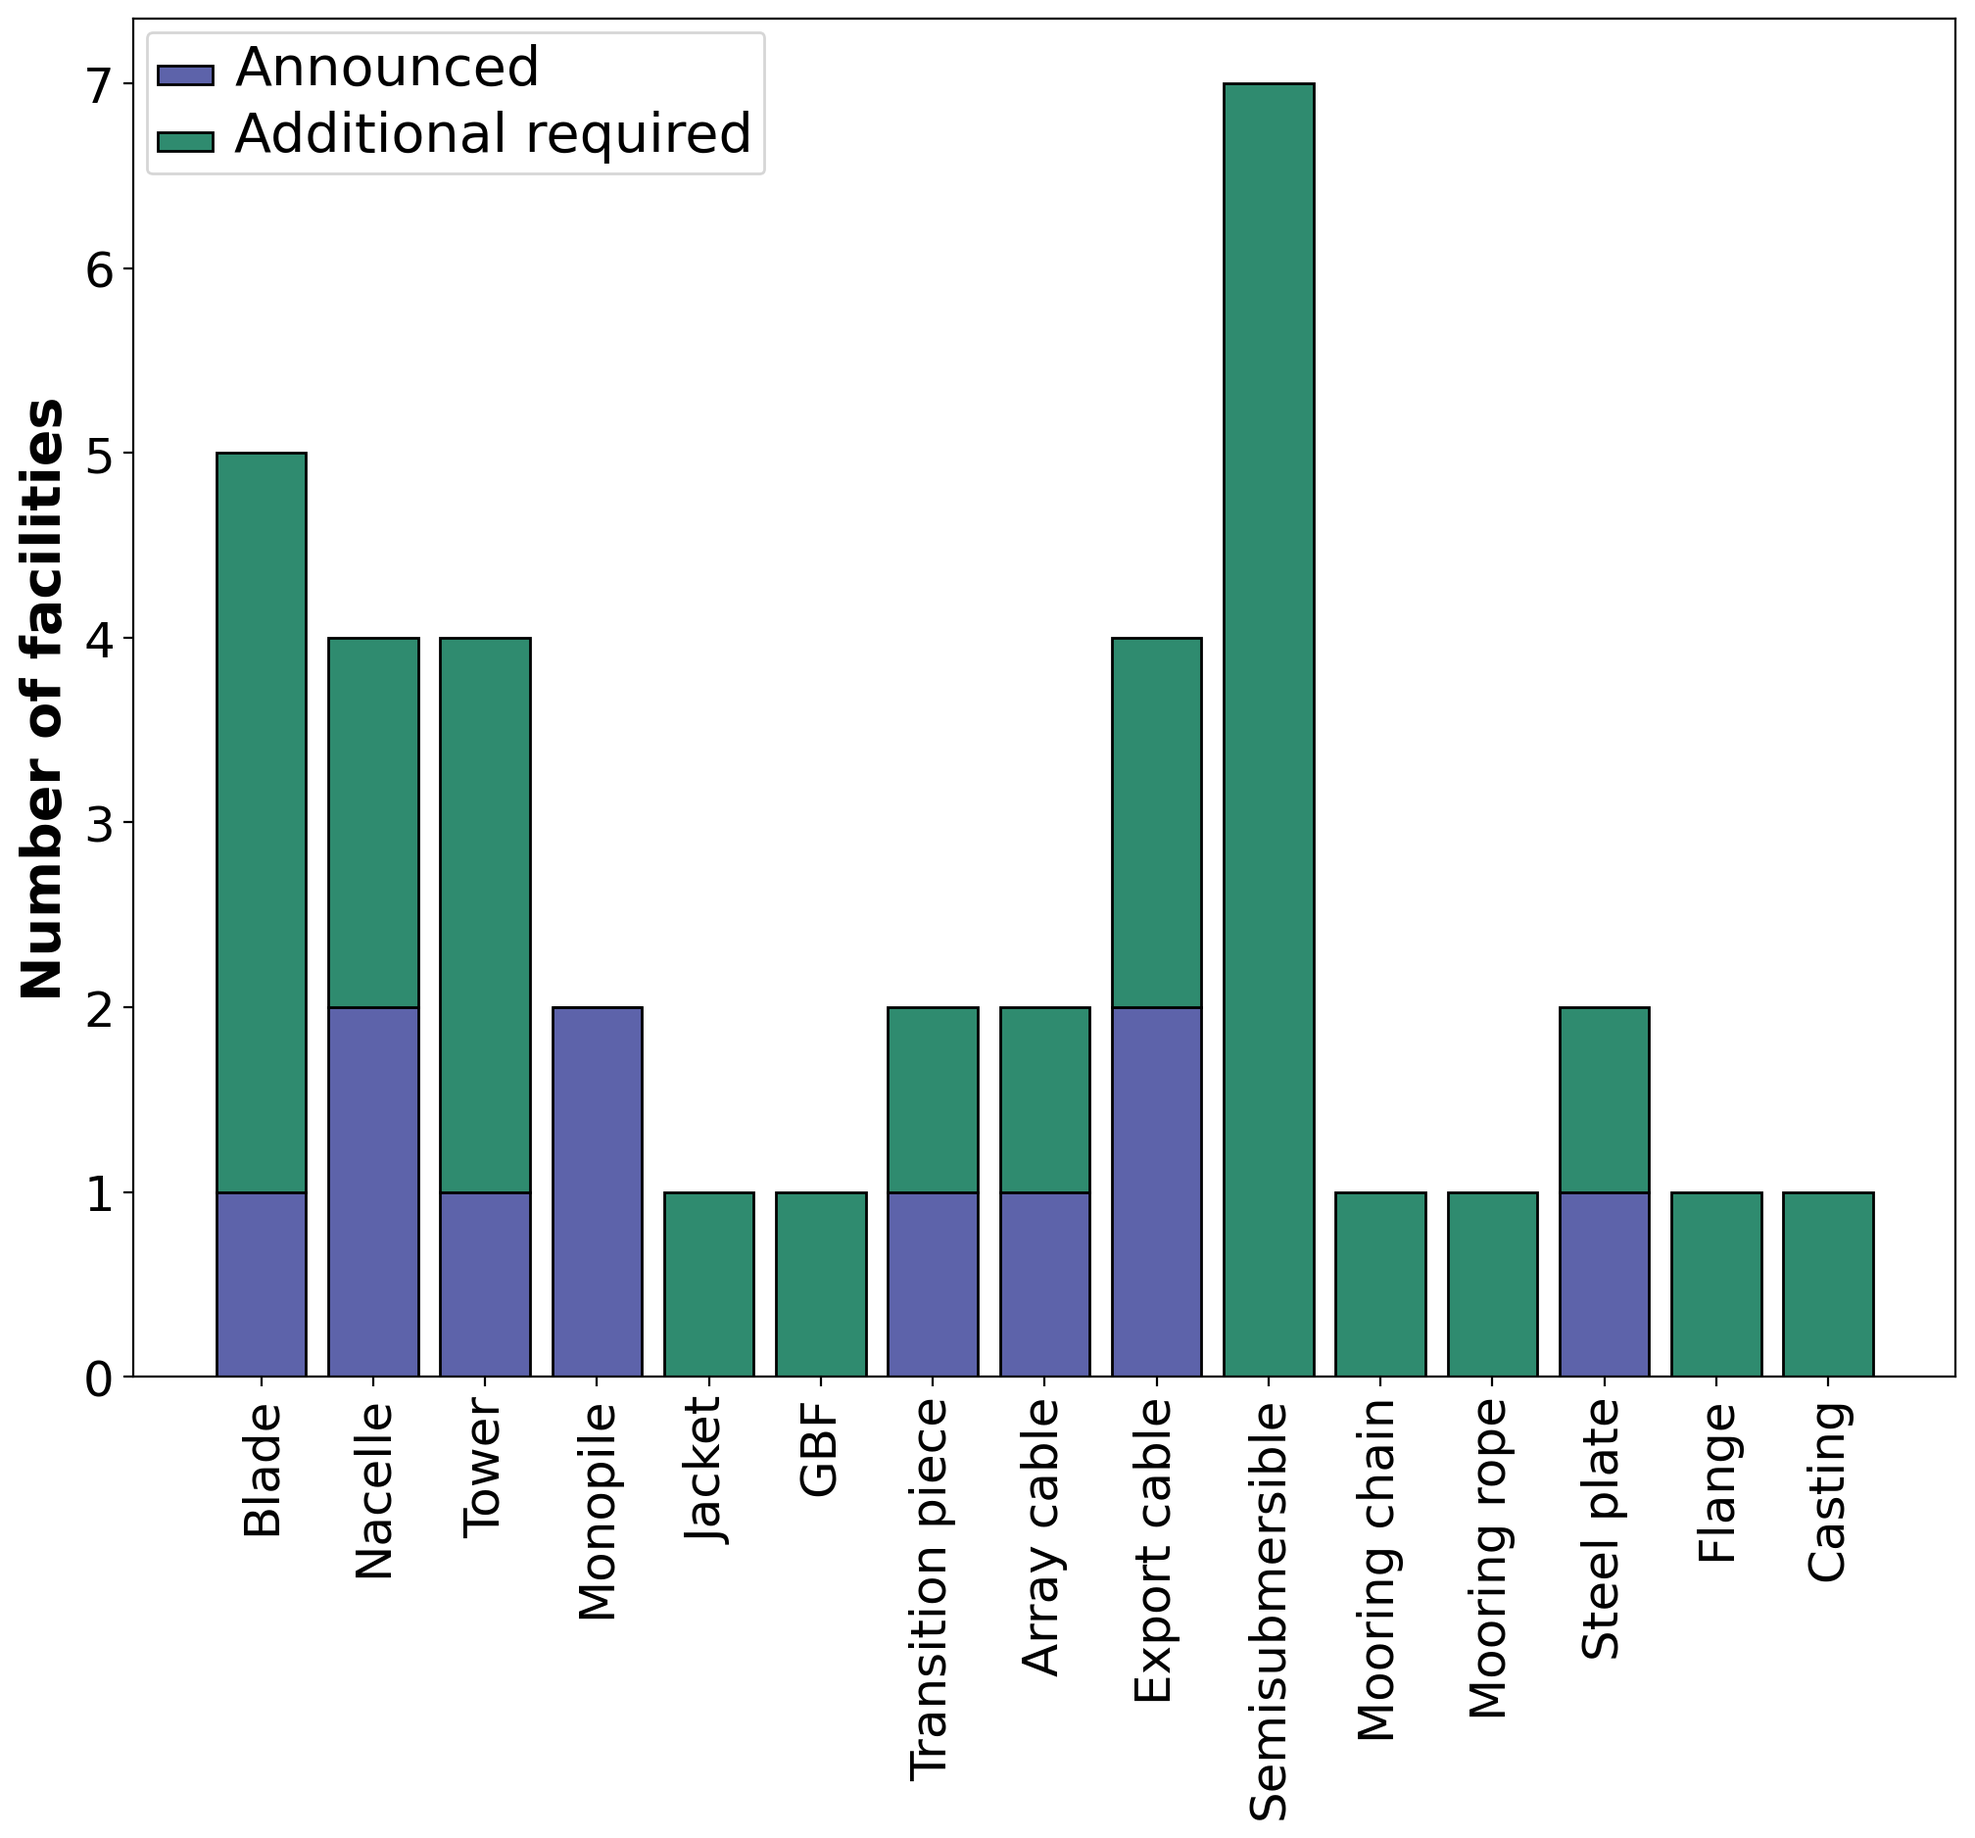
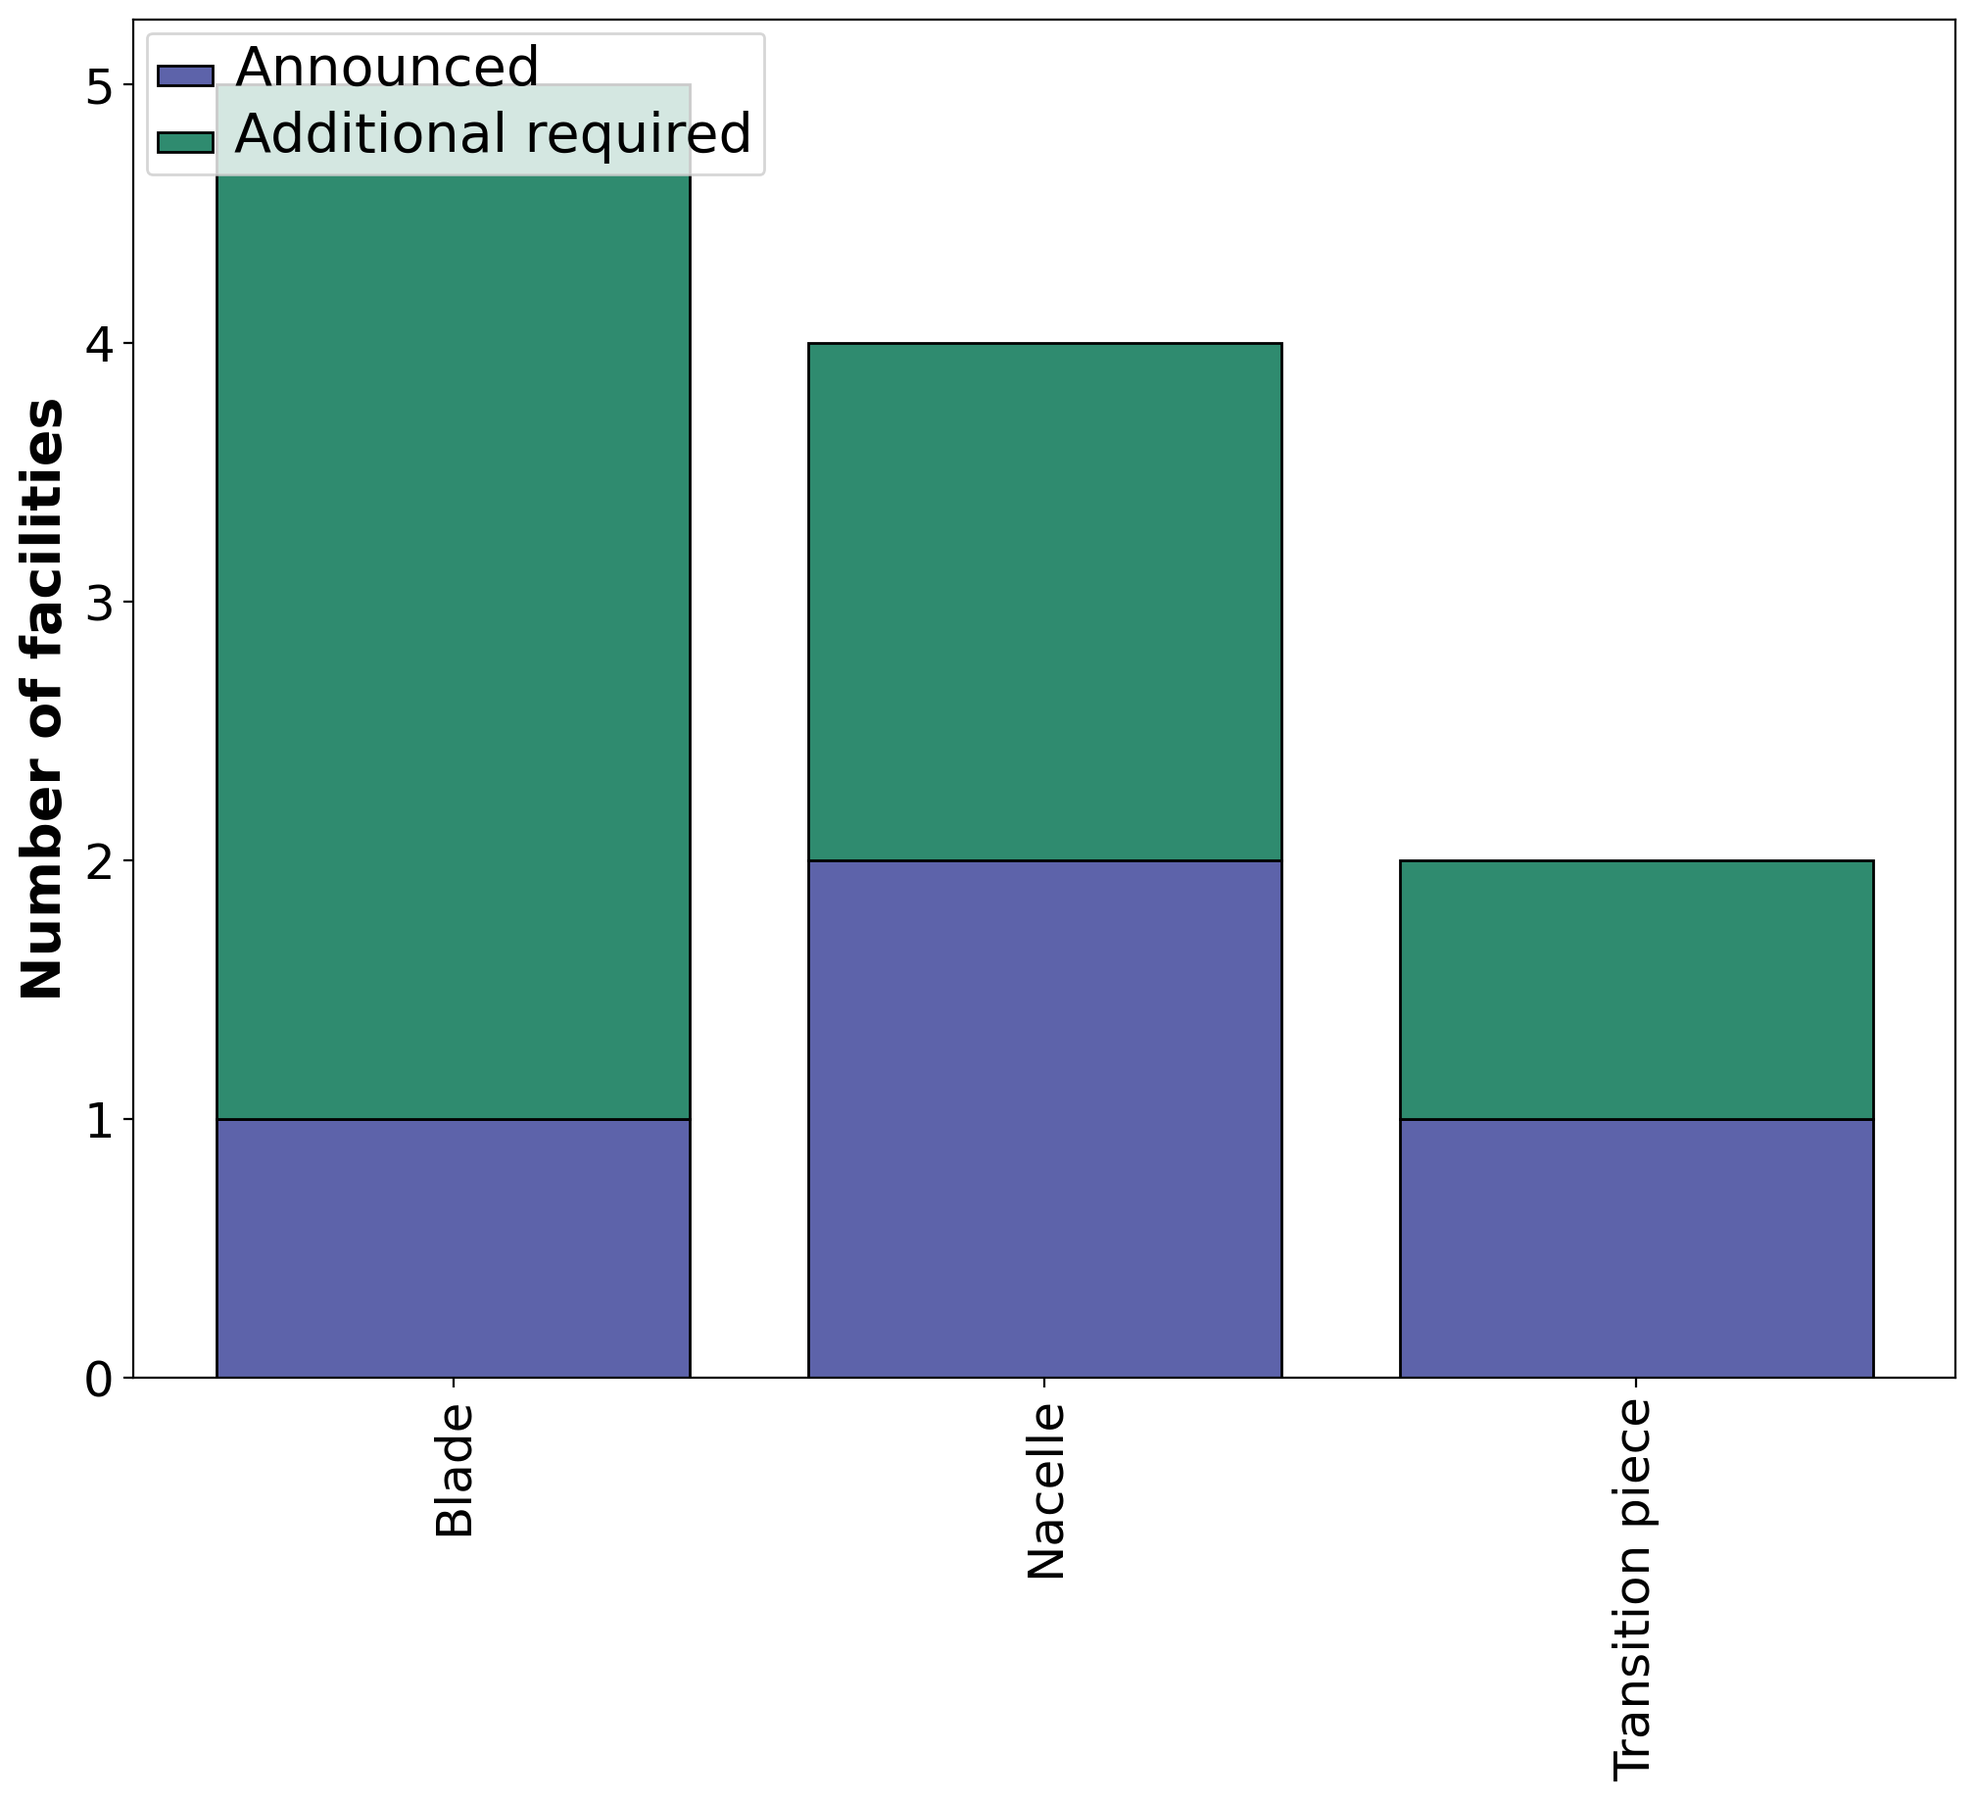
Initial framework for cumulative component diff plot

diff --git a/main.py b/main.py
@@ -9,7 +9,7 @@ import numpy as np
 import pandas as pd
 
 from helpers import read_future_scenarios, read_pipeline, define_factories, sum_property, compute_utilization, color_list, job_breakdown, ymax_plots, label_map, announced_name_map
-from plot_routines import plot_supply_demand, plot_diff, plot_cumulative, plot_num_facilities, plot_gantt
+from plot_routines import plot_supply_demand, plot_diff, plot_total_diff,  plot_cumulative, plot_num_facilities, plot_gantt
 
 # Input paramters
 filepath_scenarios = "library/Generic_facilities.xlsx"
@@ -17,7 +17,8 @@ filepath_announced = "library/Announced_factories.xlsx"
 filepath_pipeline = "library/total_demand.csv"
 filepath_ports = "fabrication_ports/ports_scenario.xlsx"
 
-components = ['Blade', 'Nacelle', 'Tower','Monopile', 'Jacket', 'GBF', 'Transition piece', 'Array cable', 'Export cable', 'Semisubmersible', 'Mooring chain', 'Mooring rope', 'Steel plate', 'Flange', 'Casting']
+components = ['Blade', 'Nacelle','Transition piece']
+ # 'Tower','Monopile', 'Jacket', 'GBF', 'Transition piece', 'Array cable', 'Export cable', 'Semisubmersible', 'Mooring chain', 'Mooring rope', 'Steel plate', 'Flange', 'Casting']
 
 if __name__ == "__main__":
     # Demand
@@ -48,6 +49,7 @@ if __name__ == "__main__":
     aggr_scenario = {}
     announced_list = []
     scenario_list = []
+    annual_diff = {}
 
     total_announced_throughput = {}
     total_scenario_throughput = {}
@@ -113,7 +115,7 @@ if __name__ == "__main__":
             y_diff = total_scenario_throughput[c] - total_demand[c]
 
         ylabel_diff = 'Difference from annual demand (' + c + '/year)'
-        plot_diff(years, y_diff, ylabel_diff, color_list, fname_diff)
+        annual_diff[c] = plot_diff(years, y_diff, ylabel_diff, color_list, fname_diff)
         #
         # Plot investment
         fname = 'results/'+ c + '_investment'
@@ -143,3 +145,7 @@ plot_num_facilities(components, indiv_announced, indiv_scenario, color_list, fna
 fname_gantt2 = 'results/overall_gantt'
 plot_gantt(announced_list, scenario_list, color_list, fname_gantt2)
 # plot_job_breakdown()
+
+# Overall difference in component_list
+fname_total_diff = 'results/total_diff'
+plot_total_diff(years, annual_diff, color_list, fname_total_diff)

diff --git a/plot_routines.py b/plot_routines.py
@@ -182,6 +182,22 @@ def plot_diff(x, y, ylabel, color, fname):
         mysave(fig, fname)
         plt.close()
 
+    return [yneg, ypos]
+
+def plot_total_diff(x, y, color, fname):
+    fig, ax = initFigAxis()
+    # Loop through all component_list
+
+    y_bot_pos = [0] * len(x)
+    y_bot_neg = [0] * len(x)
+    for k, v in y.items():
+        # v[0] = negative, v[1] = positive
+        ax.bar(x, v[0], color=color[k], edgecolor='k', label=k, bottom=y_bot_neg)
+        ax.bar(x, v[1], color=color[k], edgecolor='k', bottom=y_bot_pos)
+        y_bot_neg = v[0]
+        y_bot_pos = v[1]
+    plt.show()
+
 def plot_cumulative(x, y1, y2, components, color_list, ylabel, fname=None, alternate_breakdown=None):
     """ PLot the cumulative investment or jobs in the overall supply chain"""
     fig, ax = initFigAxis()
@@ -311,7 +327,6 @@ def plot_gantt(announced, scenario, color_list, fname=None):
         duration.append(s.construction_time)
         color.append(color_list['Scenario'])
         s_ind += 1
-    print(names, start_date, duration, color)
 
     # Make horizontal bar (Gantt)charts
     fig, ax = initFigAxis()

diff --git a/helpers.py b/helpers.py
@@ -143,7 +143,6 @@ def read_future_scenarios(file, sheet, header):
     dict = {}
     for index, row in df.iterrows():
         dict[row['Factory']] = [row['Operational date'], row['State'], row['Name']]
-    print(dict)
     return dict
 
 def read_pipeline(file):
